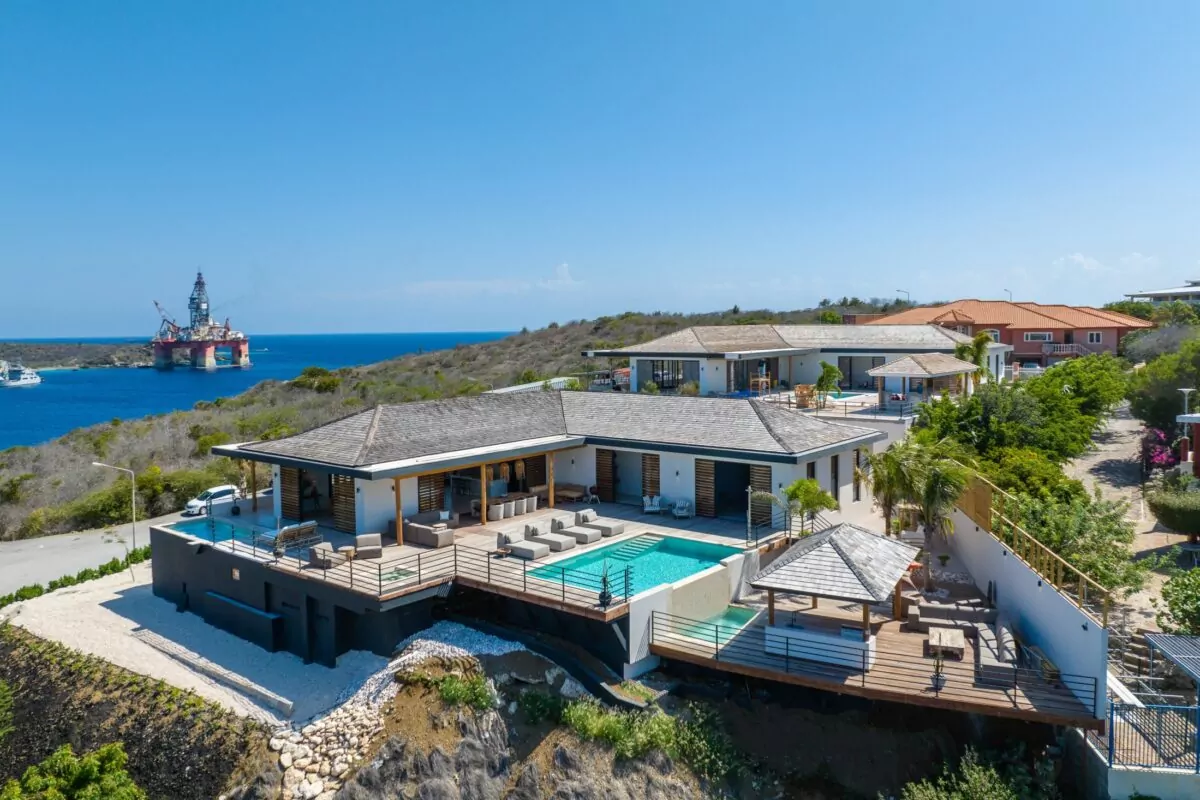
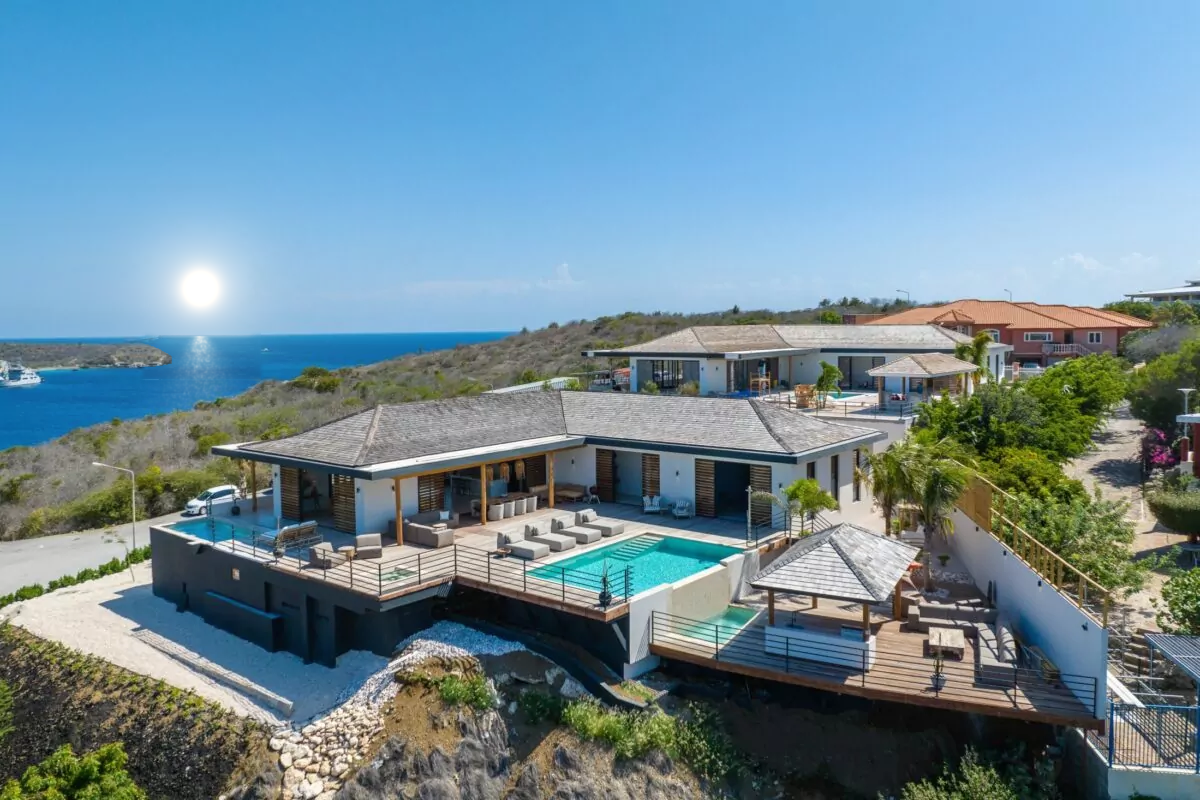
Deploy 639334a: Merge pull request #43 from SchoolProjectJaar3/feat/hero-afbeelding-vervangen

Changed region(s): [[0.0617, 0.2188, 0.3083, 0.5312]]

diff --git a/vendor/composer/installed.php b/vendor/composer/installed.php
@@ -3,7 +3,7 @@
         'name' => 'laravel/laravel',
         'pretty_version' => 'dev-main',
         'version' => 'dev-main',
-        'reference' => '920bca77dbbe11f55a34eb2114879d2702e06395',
+        'reference' => '639334a8e04ca2aab220543ded5da8fd93db4f1e',
         'type' => 'project',
         'install_path' => __DIR__ . '/../../',
         'aliases' => array(),
@@ -361,7 +361,7 @@
         'laravel/laravel' => array(
             'pretty_version' => 'dev-main',
             'version' => 'dev-main',
-            'reference' => '920bca77dbbe11f55a34eb2114879d2702e06395',
+            'reference' => '639334a8e04ca2aab220543ded5da8fd93db4f1e',
             'type' => 'project',
             'install_path' => __DIR__ . '/../../',
             'aliases' => array(),
